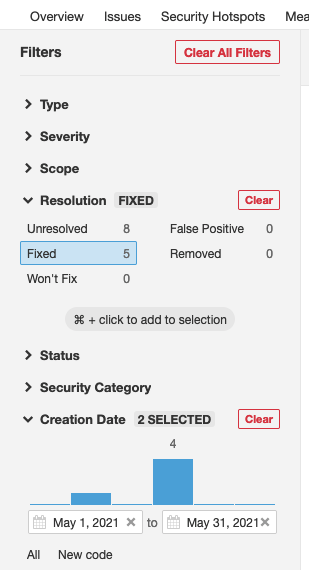
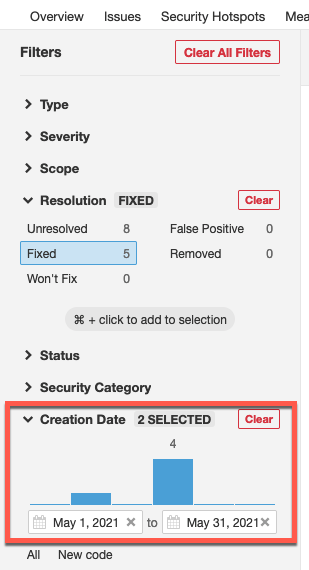
CODEX-121273

Changed region(s): [[0.0, 0.686, 0.9903, 0.9842]]

diff --git a/index.html b/index.html
@@ -7,7 +7,7 @@
   <meta name="description" content="Description">
   <meta name="viewport" content="width=device-width, initial-scale=1.0, minimum-scale=1.0">
   <!--<link rel="stylesheet" href="//cdn.jsdelivr.net/npm/docsify@4/lib/themes/vue.css">-->
-  <link rel="stylesheet" href="https://docs.developer.tech.gov.sg/static/dist/doc.cae8cb92.css">
+  <link rel="stylesheet" href="https://docs.developer.tech.gov.sg/static/dist/doc.7c1c0799.css">
   <link rel="stylesheet" href="https://fonts.googleapis.com/css2?family=Source+Sans+Pro:wght@100;300;400;700;900&display=swap">
   <link rel="stylesheet" href="https://cdnjs.cloudflare.com/ajax/libs/font-awesome/5.13.0/css/fontawesome.min.css">
   <link rel="stylesheet" href="https://cdnjs.cloudflare.com/ajax/libs/font-awesome/5.13.0/css/solid.min.css">

diff --git a/sonarqube-set-up-community-edition.md b/sonarqube-set-up-community-edition.md
@@ -127,7 +127,7 @@ Failing to so may result in an error when either of the scenarios occurs:
     
     ![](hats-community-image15.png)
 
-1.  Copy the sonar scan script based on the language of your repository (Refer to samples in the [Sona Scan for different languages](#sonar-scan-for-different-languages) section below), and replace **Variable name** as the value of `-Dsonar.login=`
+1.  Copy the sona scan script based on the language of your repository (Refer to samples in the [Sona Scan for different languages](#sonar-scan-for-different-languages) section below), and replace **Variable name** as the value of `-Dsonar.login=`
 
     >**Note:** Do **not** store the token as plaintext in the script.
 
@@ -150,7 +150,34 @@ Failing to so may result in an error when either of the scenarios occurs:
 
 - **Maven**
 
+    Format to put **Script body** in step 7 in the [Configure Tasks](#configure-tasks) section:
+    <!-- tabs:start -->
+    ### **Command Format**
+    ```
+        sonar-scanner \
+        -Dsonar.projectKey=<App Key> \
+        -Dsonar.sources=src/main/java \
+        -Dsonar.java.binaries=target/classes \
+        -Dsonar.language=java \
+        -Dsonar.host.url=https://sonar.hats.stack.gov.sg/sonar \
+        -Dsonar.login=<Token-from-SHIP-HATS-Portal>
+    ```        
+        
+    ### **Sample**
+        ```
+        sonar-scanner \
+        -Dsonar.projectKey=hats_multi \
+        -Dsonar.sources=src/main/java \
+        -Dsonar.java.binaries=target/classes \
+        -Dsonar.language=java \
+        -Dsonar.host.url=https://sonar.hats.stack.gov.sg/sonar \
+        -Dsonar.login=${bamboo.sonarqube_token_secret}
+        ```
+    <!-- tabs:end -->
+
     1. Format to put **Script body** in step 7 in the [Configure Tasks](#configure-tasks) section:
+
+        
 
         ```
         sonar-scanner \
@@ -175,10 +202,10 @@ Failing to so may result in an error when either of the scenarios occurs:
 
 - **Gradle**
 
-    - Current Sonarqube version : 8.9
+    - Current Sonarqube version : 9.3
 
-    - Official documentation for the version 8.9
-    <https://docs.sonarqube.org/8.9/analysis/scan/sonarscanner-for-gradle/>
+    - Official documentation for the version 9.3
+    <https://docs.sonarqube.org/9.3/analysis/scan/sonarscanner-for-gradle/>
 
     1. Declare org.sonarqube plugin in build.gradle in your repository
 
@@ -314,7 +341,7 @@ SonarQube app. For the unit test coverage to be visible in your SonarQube app, y
 -   As each project uses different testing frameworks with different supported report format. Please refer to official SonarQube documentation on the types of Test Coverage report path provided that suits your project requirements.
 
 -   Official Documentation:
-    <https://docs.sonarqube.org/8.9/analysis/coverage/>
+    <https://docs.sonarqube.org/9.3/analysis/coverage/>
 
 -   In this example, we use Jest Testing Framework as an example.
 
@@ -331,11 +358,11 @@ Jest provides a `jest.config.js` file for configuration. To pass test coverage i
 
     - The directory where Jest should output its coverage files
 
-        ```coverageDirectory: \'coverage\',```
+        ```coverageDirectory: 'coverage',```
 
     - A list of reporter names that Jest uses when writing coverage reports
 
-        ```coverageReporters: \[\'lcov\', \'text\', \'text-summary\', \'json\'\],```
+        ```coverageReporters: ['lcov', 'text', 'text-summary', 'json'],```
     
 
 1. Format to put **Script body** in step 7 in the [Configure Tasks](#configure-tasks) section. Make sure that you indicate the coverage files with the **-Dsonar.javascript.lcov.reportPaths** option.
@@ -359,3 +386,6 @@ Jest provides a `jest.config.js` file for configuration. To pass test coverage i
     -Dsonar.login=${bamboo.sonarqube_token_secret} \
     -Dsonar.javascript.lcov.reportPaths=coverage/lcov.info
     ```
+## Additional Resources
+
+- Bash script to check if scan passes quality gate: https://bitbucket.ship.gov.sg/projects/CLGLAB/repos/cicd-helper-scripts/browse/bash/sonarsource_sonarqube

diff --git a/sonarqube-set-up-developer-edition.md b/sonarqube-set-up-developer-edition.md
@@ -127,7 +127,7 @@ Failing to so may result in an error when either of the scenarios occurs:
     
     ![](hats-community-image15.png)
 
-1.  Copy the sonar scan script based on the language of your repository (Refer to samples in the [Sona Scan for different languages](#sonar-scan-for-different-languages) section below), and replace **Variable name** as the value of `-Dsonar.login=`
+1.  Copy the sona scan script based on the language of your repository (Refer to samples in the [Sona Scan for different languages](#sonar-scan-for-different-languages) section below), and replace **Variable name** as the value of `-Dsonar.login=`
 
     >**Note:** Do **not** store the token as plaintext in the script.
 
@@ -211,10 +211,10 @@ This is an optional step.
 
 - **Gradle**
 
-    - Current Sonarqube version : 8.9
+    - Current Sonarqube version : 9.3
 
-    - Official documentation for the version 8.9
-    <https://docs.sonarqube.org/8.9/analysis/scan/sonarscanner-for-gradle/>
+    - Official documentation for the version 9.3
+    <https://docs.sonarqube.org/9.3/analysis/scan/sonarscanner-for-gradle/>
 
     1. Declare **org.sonarqube** plugin in **build.gradle** in your repository.
 
@@ -354,7 +354,7 @@ SonarQube app. For the unit test coverage to be visible in your SonarQube app, y
 -   As each project uses different testing frameworks with different supported report format. Please refer to official SonarQube documentation on the types of Test Coverage report path provided that suits your project requirements.
 
 -   Official Documentation:
-    <https://docs.sonarqube.org/8.9/analysis/coverage/>
+    <https://docs.sonarqube.org/9.3/analysis/coverage/>
 
 -   In this example, we use Jest Testing Framework as an example.
 
@@ -371,11 +371,11 @@ Jest provides a `jest.config.js` file for configuration. To pass test coverage i
 
     - The directory where Jest should output its coverage files:
 
-        ```coverageDirectory: \'coverage\',```
+        ```coverageDirectory: 'coverage',```
 
     - A list of reporter names that Jest uses when writing coverage reports:
 
-        ```coverageReporters: \[\'lcov\', \'text\', \'text-summary\', \'json\'\],```
+        ```coverageReporters: ['lcov', 'text', 'text-summary', 'json'],```
     
 
 1. Format to put **Script body** in step 7 in the [Configure Tasks](#configure-tasks) section. Make sure that you indicate the coverage files with the **-Dsonar.javascript.lcov.reportPaths** option.
@@ -402,3 +402,6 @@ Jest provides a `jest.config.js` file for configuration. To pass test coverage i
     -Dsonar.javascript.lcov.reportPaths=coverage/lcov.info
     ```
 
+## Additional Resources
+
+- Bash script to check if scan passes quality gate: https://bitbucket.ship.gov.sg/projects/CLGLAB/repos/cicd-helper-scripts/browse/bash/sonarsource_sonarqube

diff --git a/sonarqube-self-help-guide.md b/sonarqube-self-help-guide.md
@@ -173,10 +173,12 @@ For more information on setting up SonarQube for your CICD pipeline, refer to th
 
 ### To rename an untagged analysis:
 
-1. Log in to the [SonarQube](https://sonar.hats.stack.gov.sg/) dashboard, and then click the **Activity** tab.
-1. Navigate to the analysis that you want to rename. 
-1. Click the pencil icon to edit the version tag.
+1. Go to your [SonarQube](https://sonar.hats.stack.gov.sg/) project, and then click the **Activity** tab.
+1. Navigate to the analysis that you want to rename, and then click the pencil icon to edit the version tag.
+1. In the **Name** field, specify the version name. 
 1. Click **Change** to apply the changes.
+
+    <kbd>![Change Version](sonarqube-change-version.png)</kbd>
 
 ### To configure New Code setting:
 
@@ -196,9 +198,12 @@ For more information on setting up SonarQube for your CICD pipeline, refer to th
 
 - To access unresolved issues, click **Resolution**. 
 - To access resolved issues (for example, bug, vulnerability, code smell, etc.), under the **Resolution** dropdown, click **Fixed**.
+
+  <kbd>![Filter Issues](hats-sonarqube-filter-issues.png)</kbd>
+
 - If you want to filter issues based specific date range, under the **Creation Date** section, select the required start and end date.
 
-<kbd>![Filter Issues](hats-sonarqube-filter-issues.png)</kbd>
+  <kbd>![Creation Date](hats-sonarqube-filter-issues-fixed.png)</kbd>
 
 
 ## FAQs
